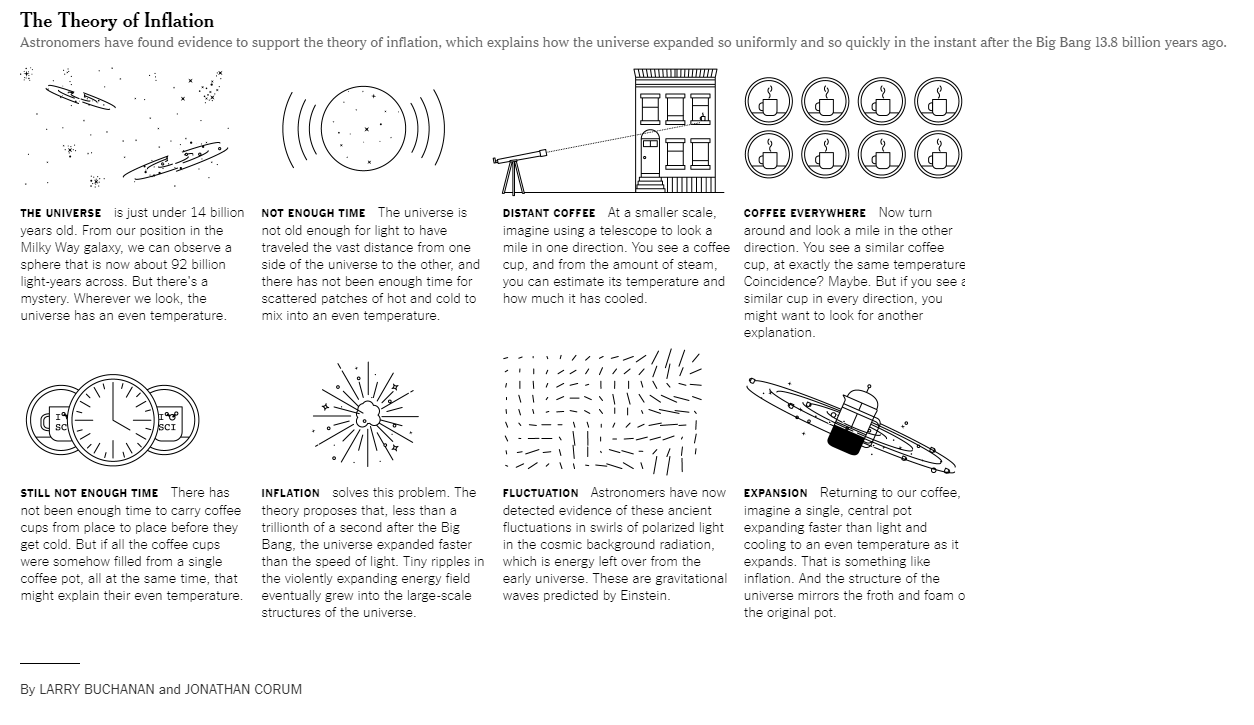
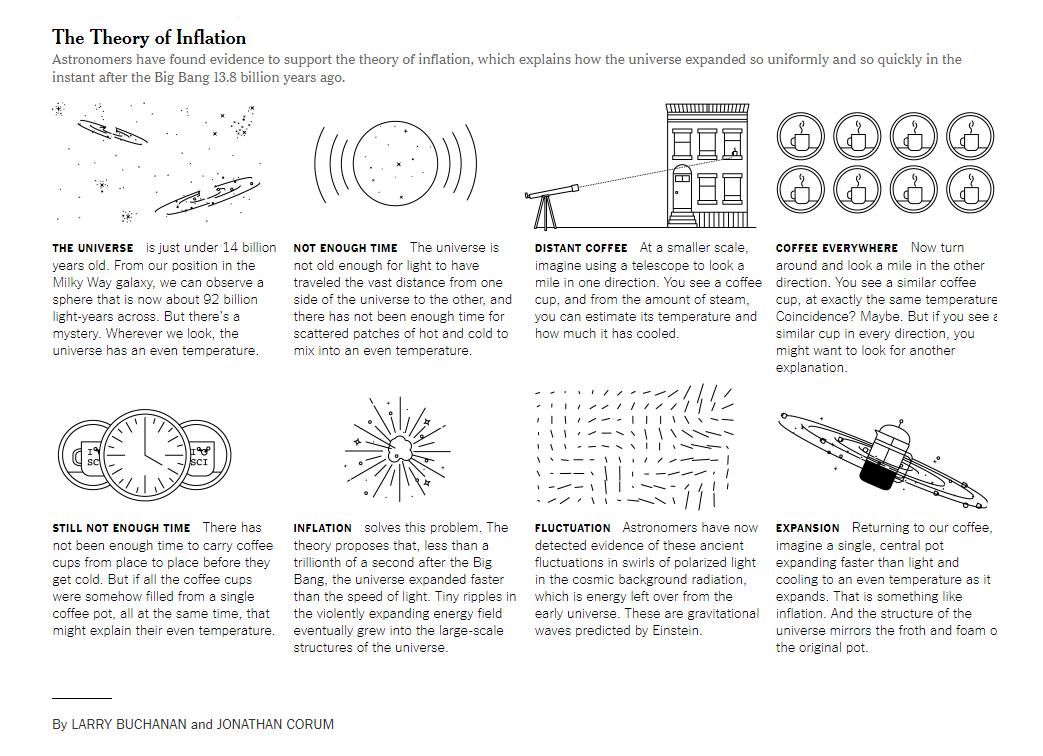
Fixed issues mentioned in the code review

Changed region(s): [[0.0, 0.0, 0.9511, 0.5159], [0.0, 0.4855, 0.9511, 0.88], [0.0, 0.9407, 0.3375, 0.971]]

diff --git a/style.css b/style.css
@@ -21,6 +21,7 @@ nav {
   position: fixed;
   background-color: white;
   border-bottom: 1px solid gray;
+  z-index: 3;
 }
 
 main {
@@ -37,7 +38,8 @@ main h1 {
 footer {
   grid-area: footer;
   border-top: 1px solid gray;
-  padding-top: 10px;
+  display: flex;
+  justify-content: space-between;
 }
 
 footer > a {
@@ -45,13 +47,22 @@ footer > a {
   font-size: 10px;
   margin-right: 1px;
   margin-left: 1%;
-  margin-top: 100px;
+  margin-top: 10px;
   color: black;
 }
 
-a:hover {
+#footer-container a:hover {
   text-decoration: underline;
 }
+
+main a:hover {
+  text-decoration: none;
+}
+
+#picture-section a:hover {
+    color: gray;
+}
+
 
 figure {
   margin: 0;
@@ -59,7 +70,7 @@ figure {
 
 figure > iframe {
   width: 100%;
-  height: 20em;
+  height: 25em;
 }
 
 figure > img {
@@ -79,8 +90,8 @@ li i {
 
 .wrapper {
   display: grid;
-  grid-template-columns: 10% 20% 40% 20% 10%;
-  grid-template-rows: 50px auto 50px;
+  grid-template-columns: 10% 25% 30% 25% 10%;
+  grid-template-rows: 50px auto auto;
   grid-template-areas: "header header header header header" ". . main aside ." ". footer footer footer .";
 }
 
@@ -169,15 +180,19 @@ div.social-buttons button.action-btn {
 }
 
 #main-image {
-  width: 160%;
+  width: 180%;
   height: 680px;
-  margin-left: -30%;
+  margin-left: -50%;
+}
+
+li > a > i:hover {
+  color:lightcyan;
 }
 
 #main-image-description {
   max-width: 140%;
   margin-top: 10px;
-  margin-left: -30%;
+  margin-left: -50%;
 }
 
 .picture-section-title > a {
@@ -185,6 +200,10 @@ div.social-buttons button.action-btn {
   text-decoration: none;
   font-family: sans-serif;
   font-weight: 600;
+}
+
+.picture-section a:hover {
+  text-decoration: underline;
 }
 
 #author-info {
@@ -231,8 +250,8 @@ div.social-buttons button.action-btn {
 
 #picture-section {
   display: flex;
-  margin-left: -50%;
-  width: 200%;
+  margin-left: -30%;
+  width: 150%;
 }
 
 #picture-section > div {
@@ -308,17 +327,17 @@ section article.picture-section-float {
 
 #pre-footer {
   margin-bottom: 20px;
+  display: flex;
 }
 
 #footer-container {
   border-top: 2px solid gray;
   margin-top: 30px;
-  margin-left: -50%;
-  width: 200%;
+  margin-left: -30%;
+  width: 150%;
 }
 
 #pre-footer > section {
-  float: left;
   margin-right: 3%;
 }
 
@@ -342,7 +361,7 @@ section article.picture-section-float {
 }
 
 #main-sidebar > div > img {
-  width: 10em;
+  width: 5em;
   padding-bottom: 15px;
 }
 
@@ -351,28 +370,59 @@ section article.picture-section-float {
   flex-direction: column;
   height: 500px;
   position: relative;
-  top: 12%;
-  left: 10%;
+  top: 14%;
+  left: 20%;
   grid-area: aside;
   margin-top: 200px;
+  font-size: 14px;
+  width: 60%;
+
+}
+
+.unlock {
+  margin: 0 auto;
+  text-align: center;
+  font-size: 18px;
+  font-weight: 700;
+}
+
+.unlock p {
+  margin-bottom: 2px;
+  margin-top: 10px; 
+}
+
+.unlock > a {
+  display: block;
+  text-decoration: none;
+  color: rgb(50, 104, 145);
+  margin-bottom: 10px;
+}
+
+.unlock > hr {
+  width: 10%;
 }
 
 #main-sidebar > div > a {
   text-decoration: none;
   color: black;
   align-self: center;
-  width: 10em;
-  margin-left: 20px;
+  width: 12em;
+  margin-left: 10px;
   font-family: Arial, Helvetica, sans-serif;
+}
+
+#main-sidebar > div > a:hover{
+  text-decoration: underline;
 }
 
 #main-sidebar > div {
   display: flex;
+  width: 200px;
 }
 
 #main-sidebar > h4 {
   display: block;
-  padding-bottom: 10px;
+  padding-bottom: 3px;
   border-bottom: 1px solid gray;
 }
 

diff --git a/index.html b/index.html
@@ -143,8 +143,12 @@
               and his colleagues say, that Dr. Guth was correct.
             </p>
 
-            <div id="center-div">
-              <p>Unlock more free articles. Create an account or log in</p>
+              
+            <div class="unlock" id="center-div">
+              <hr>
+              <p >Unlock more free articles.</p>
+              <a href="#"> Create an account or log in</a>
+              <hr>
             </div>
 
             <p>
@@ -520,7 +524,7 @@
                   <a href="facebook.com"><i class="fab fa-facebook"></i></a>
                 </li>
                 <li>
-                  <a href="twitter.com"></a> <i class="fab fa-twitter"></i>
+                  <a href="twitter.com"><i class="fab fa-twitter"></i></a>
                 </li>
                 <li>
                   <a href="#"> <i class="far fa-envelope"></i> </a>
